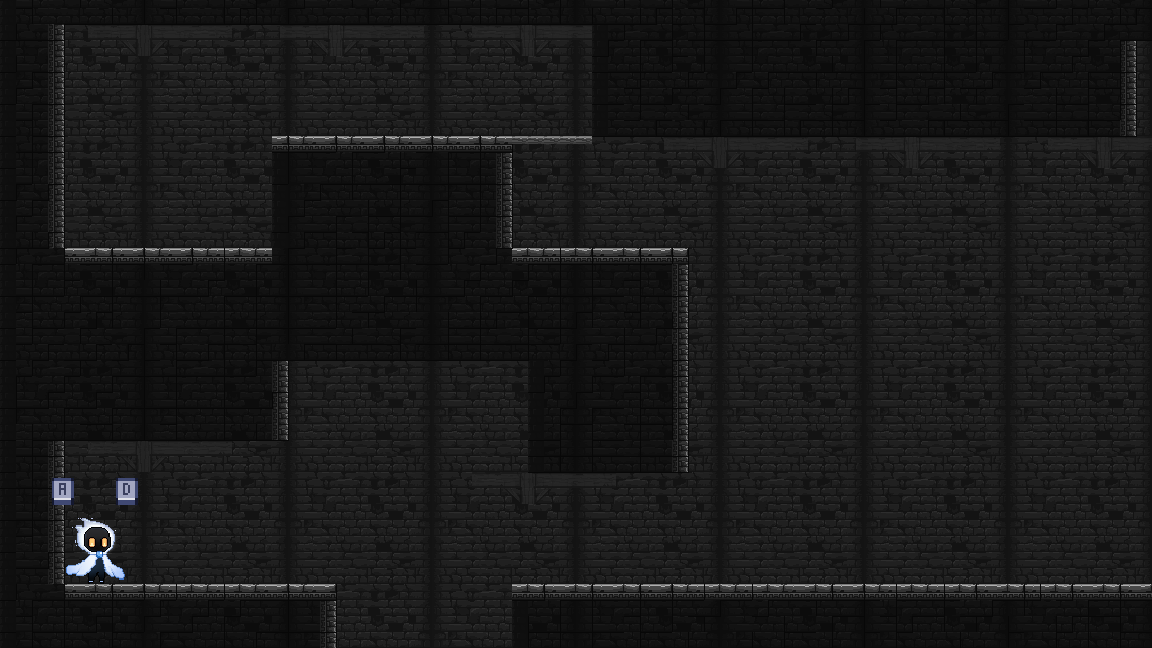
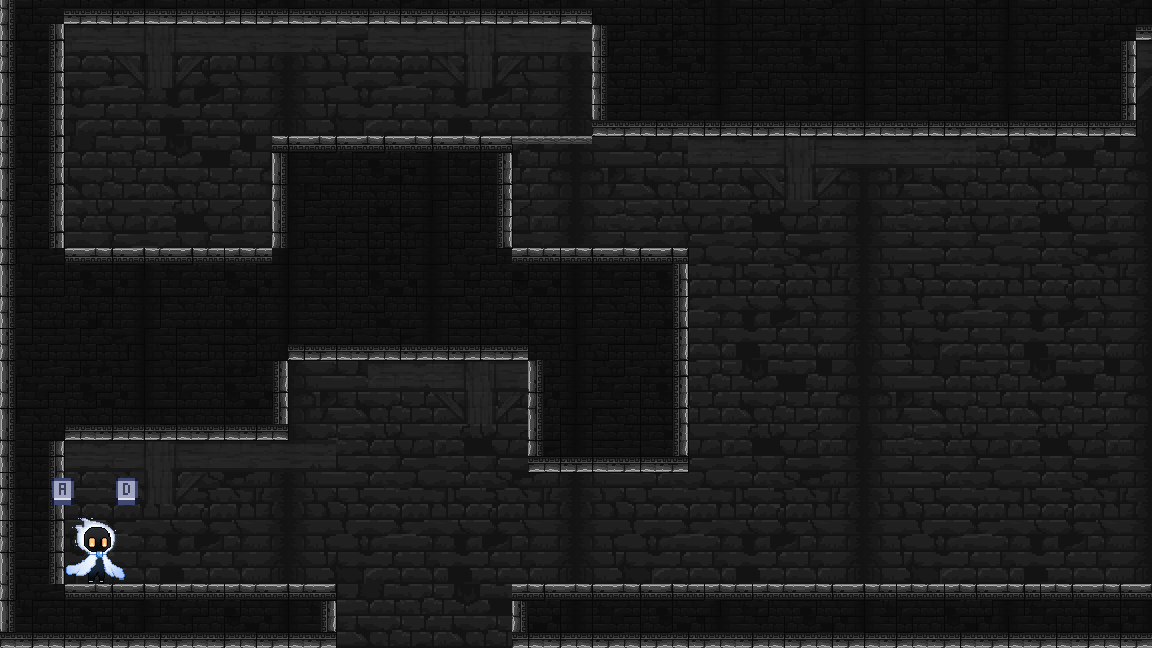
배경 벽돌과 지지대를 확대하고 모든 노출면의 밝은 석재 테두리 통일

diff --git a/code/temple.py b/code/temple.py
@@ -16,7 +16,7 @@ class TempleBackground(Background):
         self.water = AnimatedWater()
         self.supports = []
         # Place background timber inside actual gaps between floors and ceilings.
-        for x in range(160, level.width, 192):
+        for x in range(192, level.width, 320):
             spans = sorted((p.bottom, p.top) for p in level.platforms
                            if p.left <= x < p.right)
             merged = []
@@ -26,31 +26,34 @@ class TempleBackground(Background):
                 else:
                     merged.append((bottom, top))
             for lower, upper in zip(merged, merged[1:]):
-                if upper[0] - lower[1] >= 96:
+                if upper[0] - lower[1] >= 128:
                     self.supports.append((x, lower[1], upper[0]))
 
-    def patch(self, sx, sy, sw, sh, x, y, width, height):
-        self.sheet.clip_draw(sx, self.sheet.h - sy - sh, sw, sh,
-                             round(x), round(y), width, height)
+    def patch(self, sx, sy, sw, sh, x, y, width, height, angle=0):
+        self.sheet.clip_composite_draw(sx, self.sheet.h - sy - sh, sw, sh,
+                                       angle, '', round(x), round(y), width, height)
 
     def draw(self, camera_x, camera_y=0):
         pico2d.draw_rectangle(0, 0, SCREEN_WIDTH, SCREEN_HEIGHT, 12, 12, 12, filled=True)
         # Continuous room walls use the atlas' complete brick panel.
-        first_x = math.floor(camera_x / 16)
-        first_y = math.floor(camera_y / 16)
+        background_size = 32
+        first_x = math.floor(camera_x / background_size)
+        first_y = math.floor(camera_y / background_size)
         self.sheet.opacify(.85)
-        for col in range(first_x, math.ceil((camera_x + SCREEN_WIDTH) / 16)):
-            for row in range(first_y, math.ceil((camera_y + SCREEN_HEIGHT) / 16)):
+        for col in range(first_x, math.ceil((camera_x + SCREEN_WIDTH) / background_size)):
+            for row in range(first_y, math.ceil((camera_y + SCREEN_HEIGHT) / background_size)):
                 self.patch(1152 + col % 9 * 16, 464 + row % 7 * 16, 16, 16,
-                           col * 16 + 8 - camera_x, row * 16 + 8 - camera_y, 16, 16)
+                           col * background_size + background_size / 2 - camera_x,
+                           row * background_size + background_size / 2 - camera_y,
+                           background_size, background_size)
         self.sheet.opacify(.72)
         for x, floor, ceiling in self.supports:
-            if camera_x - 72 <= x <= camera_x + SCREEN_WIDTH + 72:
+            if camera_x - 144 <= x <= camera_x + SCREEN_WIDTH + 144:
                 self.patch(1872, 176, 144, 32, x - camera_x,
-                           ceiling - 16 - camera_y, 144, 32)
+                           ceiling - 32 - camera_y, 288, 64)
                 self.patch(1936, 208, 16, 80, x - camera_x,
-                           (floor + ceiling - 32) / 2 - camera_y,
-                           16, ceiling - floor - 32)
+                           (floor + ceiling - 64) / 2 - camera_y,
+                           32, ceiling - floor - 64)
         size = self.size
         for col, row in self.terrain:
             if not (camera_x - size < col * size < camera_x + SCREEN_WIDTH
@@ -66,14 +69,12 @@ class TempleBackground(Background):
             self.patch(1152 + col % 9 * 16, 464 + row % 7 * 16,
                        16, 16, x, y, size, size)
             self.sheet.opacify(1)
-            if (col - 1, row) not in self.terrain:
-                self.patch(528, 576, 16, 16, x, y, size, size)
-            if (col + 1, row) not in self.terrain:
-                self.patch(176, 576, 16, 16, x, y, size, size)
-            if (col, row - 1) not in self.terrain:
-                self.patch(240 + col % 3 * 16, 480, 16, 16, x, y, size, size)
-            if (col, row + 1) not in self.terrain:
-                self.patch(240 + col % 3 * 16, 720, 16, 16, x, y, size, size)
+            # Rotate the same bright stone trim toward every exposed face.
+            for dx, dy, angle in ((-1, 0, math.pi / 2), (1, 0, -math.pi / 2),
+                                  (0, -1, math.pi), (0, 1, 0)):
+                if (col + dx, row + dy) not in self.terrain:
+                    self.patch(240 + (col + row) % 3 * 16, 720, 16, 16,
+                               x, y, size, size, angle)
         self.sheet.opacify(1)
         for platform in getattr(self.level, 'thin_platforms', []):
             for start in range(platform.left, platform.right, size):

diff --git a/tools/preview_levels.py b/tools/preview_levels.py
@@ -1,5 +1,6 @@
 """Render the actual scene draw calls to PNGs without opening a game window."""
 import sys
+import math
 from pathlib import Path
 from unittest.mock import patch
 
@@ -36,6 +37,9 @@ class Sprite:
         self.image = original.crop((x, self.h - y - h, x + w, self.h - y))
         if flip == "h":
             self.image = ImageOps.mirror(self.image)
+        if angle:
+            self.image = self.image.rotate(math.degrees(angle),
+                                           resample=Image.Resampling.NEAREST, expand=True)
         self.draw(cx, cy, dw, dh)
         self.image = original
 
